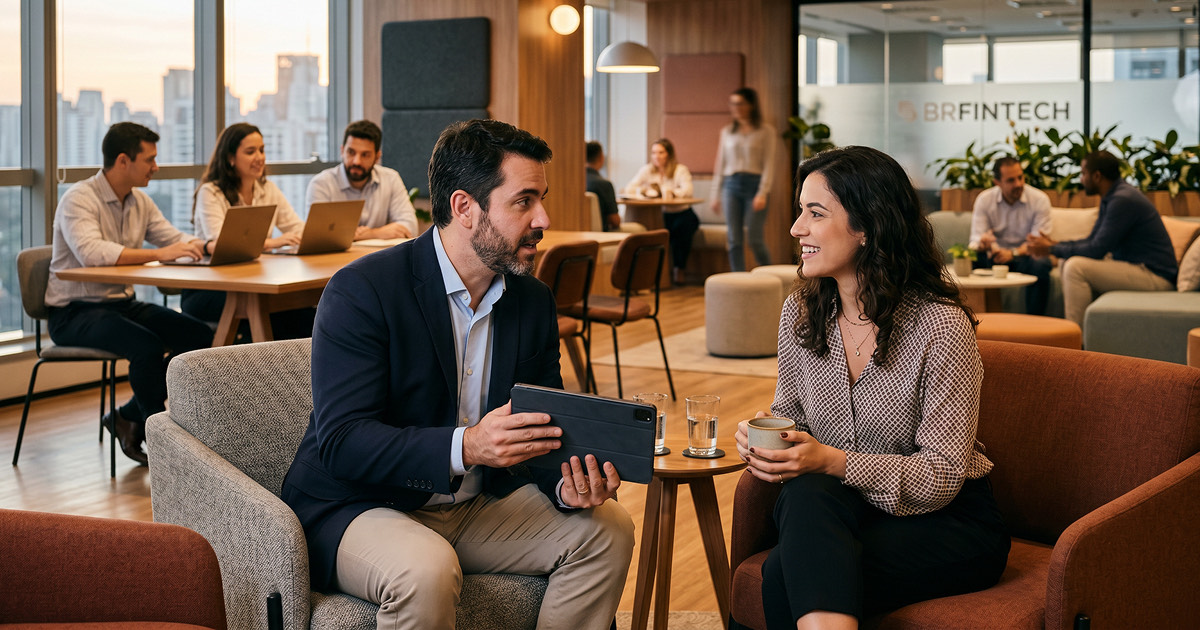
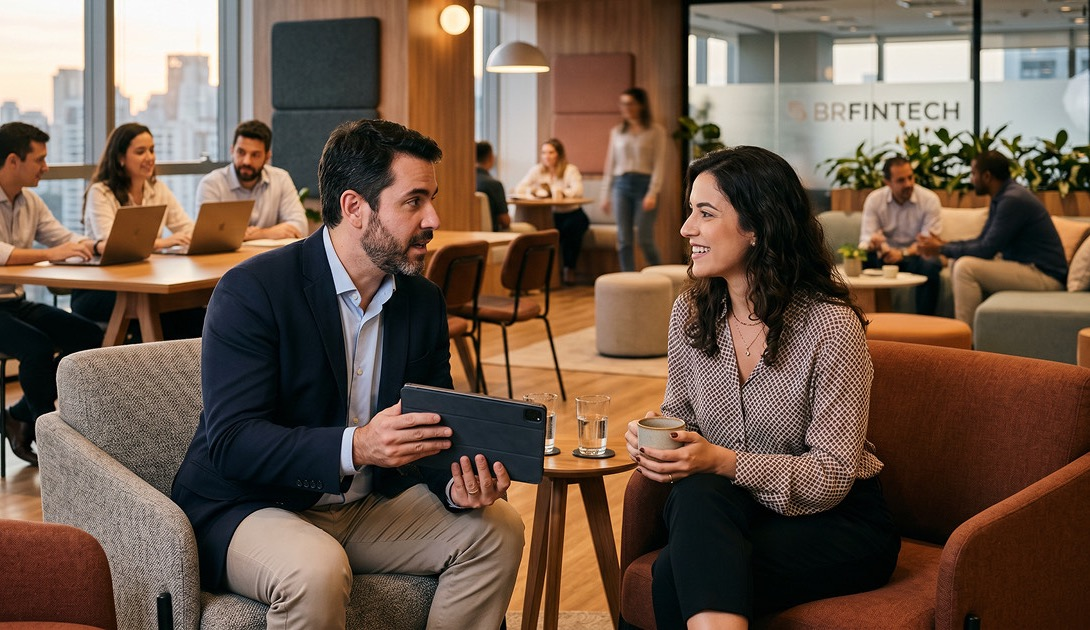
Fix sticky-header scroll glitch + recenter fintech photo
Header:
- Make it a full-width sticky bar (was max-width:1440 + margin auto, so on
  wide screens scrolled content peeked beside it); content stays centered
  within 1440 via auto side padding
- Keep it solid dark always — drop the translucent/blur .is-scrolled state
  that let the bright hero photo bleed through on scroll (just a hairline
  now appears for separation)

Fintech photo:
- Trim 110px of excess left background so the pair is centered and the
  woman's shoulder clears the right edge (1200->1090 wide), update
  aspect-ratio + img dims to match

diff --git a/assets/css/site.css b/assets/css/site.css
@@ -39,24 +39,21 @@
   /* ==== HEADER ==== */
   .header {
     background: var(--dark);
-    padding: 22px 60px;
+    /* Full-width sticky bar; content stays centered within 1440 via auto side
+       padding. (max-width + margin auto left the bar narrower than the
+       full-bleed hero, so scrolled content peeked beside it on wide screens.) */
+    padding: 22px max(60px, calc((100% - 1440px) / 2));
     display: flex; align-items: center; justify-content: space-between;
     position: sticky;
     top: 0;
     z-index: 100;
-    max-width: 1440px;
-    margin: 0 auto;
     border-bottom: 1px solid transparent;
-    transition: background 0.25s ease, border-color 0.25s ease, padding 0.25s ease;
+    transition: border-color 0.25s ease;
   }
-  /* Scrolled state — toggled by site.js. Adds separation from page content. */
+  /* Scrolled state — solid dark always (no translucency/blur, so the hero photo
+     never bleeds through); just a hairline appears for separation. */
   .header.is-scrolled {
-    background: rgba(24, 24, 24, 0.82);
-    -webkit-backdrop-filter: blur(12px);
-    backdrop-filter: blur(12px);
     border-bottom-color: var(--gray-line);
-    padding-top: 14px;
-    padding-bottom: 14px;
   }
   .header__logo {
     display: inline-flex;
@@ -1465,7 +1462,7 @@
     display: block;
     width: 100%;
     min-width: 0; /* let the 1fr grid track shrink below the image's intrinsic width */
-    aspect-ratio: 1200 / 630; /* native ratio: whole photo shows, centered, no crop */
+    aspect-ratio: 1090 / 630; /* native ratio of the recentered photo: whole frame shows, no crop */
     object-fit: cover;
     border-radius: 12px;
   }

diff --git a/pages/home.html b/pages/home.html
@@ -81,7 +81,7 @@
         <h2 class="home-block__title fade-in-on-scroll"><span data-lang="pt">Da PME à fintech,<br>o dinheiro da empresa precisa sair certo.</span><span data-lang="en">From SMB to fintech,<br>company money needs to go out right.</span></h2>
         <p class="home-block__sub"><span data-lang="pt">Não importa o volume. Cada TED tem hora marcada, cada pagamento tem comprovante, cada extrato tem filtro. Sua operação financeira não precisa de surpresas.</span><span data-lang="en">Volume doesn't matter. Every TED has a scheduled time, every payment has a receipt, every statement has a filter. Your financial operation doesn't need surprises.</span></p>
       </div>
-      <img class="home-split__img" src="assets/home-fintech.jpg" width="1200" height="630" loading="lazy" decoding="async" alt="Dois profissionais conversando em uma área de convivência de um escritório de fintech em São Paulo.">
+      <img class="home-split__img" src="assets/home-fintech.jpg" width="1090" height="630" loading="lazy" decoding="async" alt="Dois profissionais conversando em uma área de convivência de um escritório de fintech em São Paulo.">
     </div>
   </section>
 
